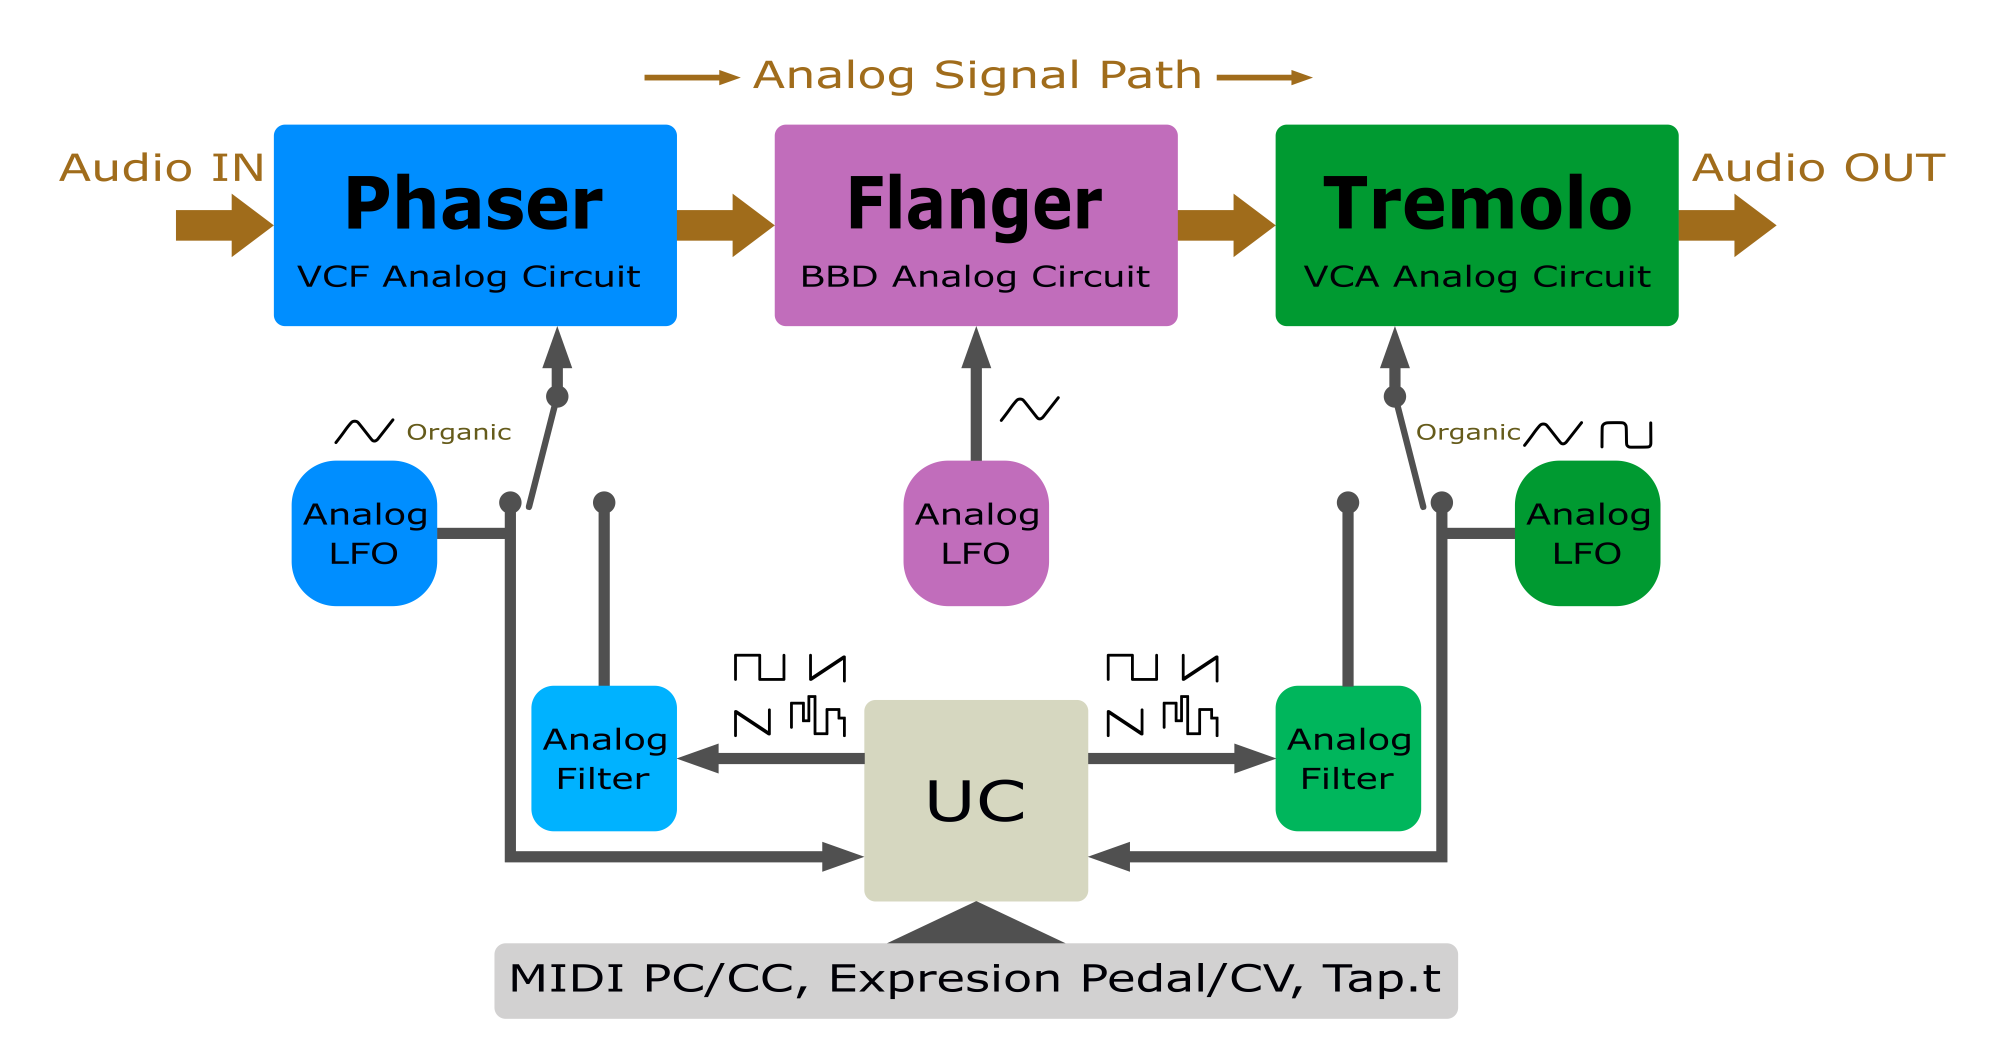
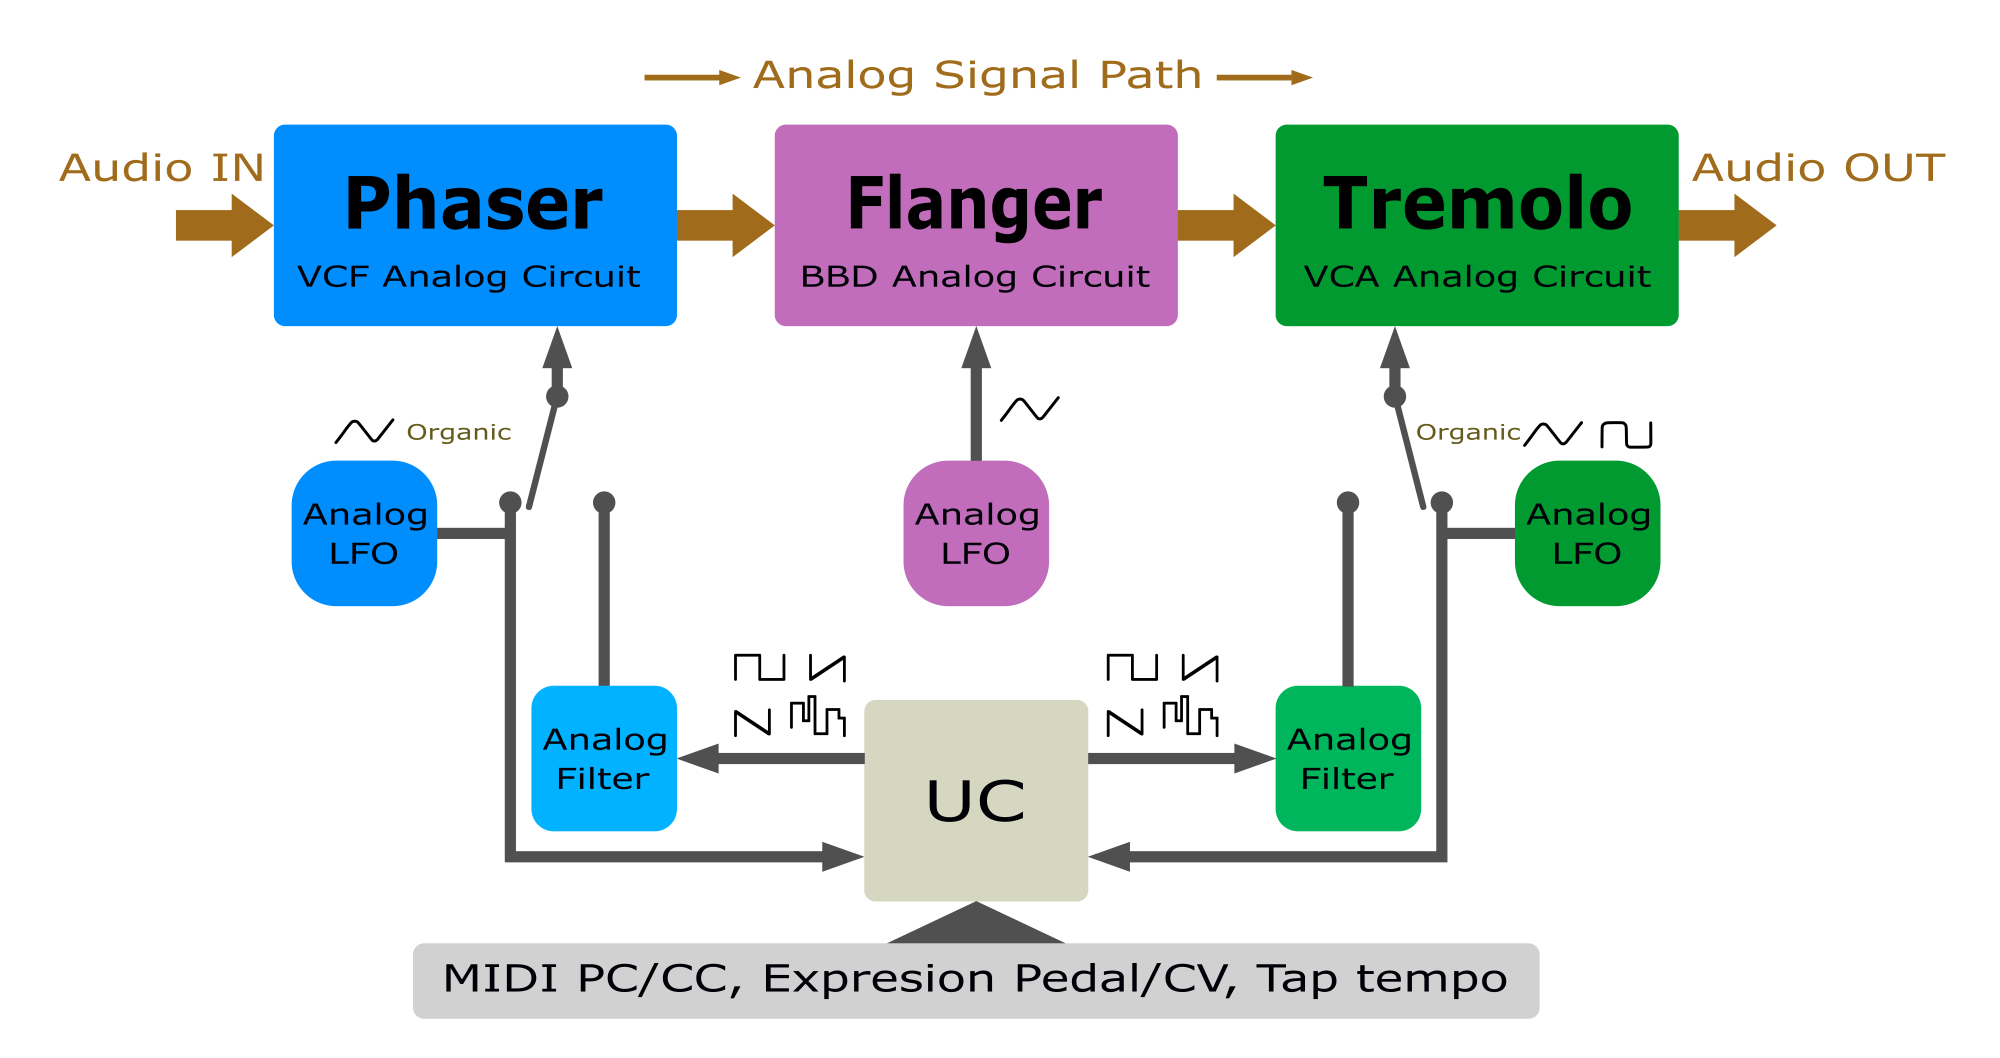
docs: sync manual — revisión amigo (convenciones LFO/CV/P-F-T, areas de control, switch Toggle, diagrama actualizado)

Changed region(s): [[0.186, 0.8733, 0.775, 0.9669]]

diff --git a/index.html b/index.html
@@ -815,6 +815,16 @@
         <td class="en">Hold down ≥2 s until LED changes</td>
       </tr>
       <tr>
+        <td><strong>LFO</strong></td>
+        <td class="es">Low Frequency Oscillator — oscilador de baja frecuencia que modula algún parámetro de una señal de audio (amplitud, frecuencia, retardo) sin producir audio</td>
+        <td class="en">Low Frequency Oscillator — low-frequency oscillator that modulates a parameter of an audio signal (amplitude, frequency, delay) without producing audio itself</td>
+      </tr>
+      <tr>
+        <td><strong>P</strong> · <strong>F</strong> · <strong>T</strong></td>
+        <td class="es">Letras grabadas en el panel frontal — identifican el área de controles de cada efecto: Phaser (LED azul), Flanger (LED rosado), Tremolo (LED verde)</td>
+        <td class="en">Letters engraved on the front panel — identify each effect's control area: Phaser (blue LED), Flanger (pink LED), Tremolo (green LED)</td>
+      </tr>
+      <tr>
         <td><strong>BBD</strong></td>
         <td class="es">Bucket Brigade Device — retardo analógico por etapas de capacitores</td>
         <td class="en">Bucket Brigade Device — analog delay using cascaded capacitor stages</td>
@@ -828,6 +838,11 @@
         <td><strong>VCA</strong></td>
         <td class="es">Voltage Controlled Amplifier — control de amplitud por voltaje (Tremolo)</td>
         <td class="en">Voltage Controlled Amplifier — amplitude control by voltage (Tremolo)</td>
+      </tr>
+      <tr>
+        <td><strong>CV</strong></td>
+        <td class="es">Control Voltage — señal de control por voltaje, alternativa al pedal de expresión</td>
+        <td class="en">Control Voltage — voltage-based control signal, an alternative to the expression pedal</td>
       </tr>
     </tbody>
   </table>
@@ -943,7 +958,7 @@
       <tr>
         <td><strong>REG / RES</strong></td>
         <td class="es">Perilla</td><td class="en">Knob</td>
-        <td class="es">Resonancia — Q del filtro (VCF)</td><td class="en">Resonance — filter Q (VCF)</td>
+        <td class="es">Factor Q del filtro (VCF)</td><td class="en">Filter Q factor (VCF)</td>
         <td class="es">Regeneración — feedback del delay</td><td class="en">Regeneration — delay feedback</td>
       </tr>
       <tr>
@@ -1030,10 +1045,10 @@
         <td class="en">Speed B — <span class="leds"><span class="led led-orange led-sm"></span></span> orange LED pulses in sync</td>
       </tr>
       <tr>
-        <td><strong>Toggle T</strong></td>
-        <td class="es">Toggle Switch</td><td class="en">Toggle Switch</td>
-        <td class="es">Selecciona la forma Orgánica de Tremolo: <em>Triangular Orgánica</em> o <em>Cuadrada Orgánica</em>. Inactivo en Onda Cuadrada, Rampa Ascendente, Rampa Descendente y Aleatoria.</td>
-        <td class="en">Selects the Tremolo Organic waveform: <em>Organic Triangle</em> or <em>Organic Square</em>. Inactive in Square Wave, Saw Up, Saw Down and Random.</td>
+        <td><strong>Toggle</strong></td>
+        <td class="es">switch Toggle</td><td class="en">switch Toggle</td>
+        <td class="es">Selecciona la forma Orgánica de Tremolo: <em>Triangular Orgánica</em> o <em>Cuadrada Orgánica</em>. Inactivo en Onda Cuadrada, Rampa Ascendente, Rampa Descendente y Aleatoria (ver sección 5).</td>
+        <td class="en">Selects the Tremolo Organic waveform: <em>Organic Triangle</em> or <em>Organic Square</em>. Inactive in Square Wave, Saw Up, Saw Down and Random (see section 5).</td>
       </tr>
     </tbody>
   </table>
@@ -1058,10 +1073,10 @@
       <tr>
         <td class="es"><strong>Derecho</strong></td>
         <td class="en"><strong>Right</strong></td>
-        <td class="es">Activar / bypass Phaser (PH), Flanger (FL) o PH+FL</td>
-        <td class="en">Activate / bypass Phaser (PH), Flanger (FL) or PH+FL</td>
-        <td class="es">Menú de selección de efecto: PH / FL / PH+FL / Rate A/B Tremolo (ver sección 4)</td>
-        <td class="en">Effect selection menu: PH / FL / PH+FL / Rate A/B Tremolo (see section 4)</td>
+        <td class="es">Activar / bypass Phaser (P), Flanger (F) o P+F</td>
+        <td class="en">Activate / bypass Phaser (P), Flanger (F) or P+F</td>
+        <td class="es">Menú de selección de efecto: P / F / P+F / Rate A/B Tremolo (ver sección 4)</td>
+        <td class="en">Effect selection menu: P / F / P+F / Rate A/B Tremolo (see section 4)</td>
       </tr>
     </tbody>
   </table>
@@ -1323,8 +1338,8 @@
   <h3 class="sub es">Velocidades A y B (Rate A / B)</h3>
   <h3 class="sub en">Speeds A and B (Rate A / B)</h3>
 
-  <p class="es">Cada efecto tiene dos velocidades preconfiguradas por sus controles RATE A y RATE B. Para <strong>Tremolo</strong>: controles de la sección T (izquierda). Para <strong>Phaser y Flanger</strong>: controles compartidos de la sección F y P (central/derecha).</p>
-  <p class="en">Each effect has two speeds preset by its RATE A and RATE B controls. For <strong>Tremolo</strong>: T section controls (left). For <strong>Phaser and Flanger</strong>: shared F and P section controls (center/right).</p>
+  <p class="es">Cada efecto tiene dos velocidades preconfiguradas por sus controles RATE A y RATE B. Para <strong>Tremolo</strong>: controles del área de controles de Tremolo. Para <strong>Phaser y Flanger</strong>: control compartido entre las áreas de controles de Phaser y de Flanger.</p>
+  <p class="en">Each effect has two speeds preset by its RATE A and RATE B controls. For <strong>Tremolo</strong>: controls in the Tremolo control area. For <strong>Phaser and Flanger</strong>: shared control between the Phaser and Flanger control areas.</p>
 
   <div class="box note">
     <p class="es"><strong>LEDs de Rate A/B:</strong> Los LEDs de Rate oscilan en sincronía cuando el LFO está controlado desde las perillas RATE A o B del pedal. Cuando la velocidad proviene de un Pedal de Expresión, MIDI CC o Tap Tempo, el efecto responde a esa fuente pero los LEDs continúan reflejando el oscilador local del pedal.</p>
@@ -1351,8 +1366,8 @@
   <h2 class="sec es">Formas de Onda LFO</h2>
   <h2 class="sec en">LFO Waveforms</h2>
 
-  <p class="es">El TripMod ofrece cinco formas de onda LFO seleccionables por menú para <strong>Phaser</strong> y <strong>Tremolo</strong>. Adicionalmente, para Tremolo, cuando se está en modo <em>Triangular Orgánica</em>, el Switch Toggle del panel frontal permite seleccionar la variante <em>Cuadrada Orgánica</em>. La señal <em>Triangular Orgánica</em> es el oscilador analógico del circuito — la Unidad de Control la usa como referencia de amplitud (DEPTH) y frecuencia (RATE) para generar las demás formas. El Flanger siempre usa su oscilador analógico propio.</p>
-  <p class="en">TripMod offers five menu-selectable LFO waveforms for <strong>Phaser</strong> and <strong>Tremolo</strong>. Additionally, for Tremolo, when in <em>Organic Triangle</em> mode, the front panel Switch Toggle allows selecting the <em>Organic Square</em> variant. The <em>Organic Triangle</em> signal is the circuit's analog oscillator — the Control Unit uses it as the amplitude (DEPTH) and frequency (RATE) reference for generating all other waveforms. Flanger always uses its own analog oscillator.</p>
+  <p class="es">El TripMod ofrece cinco formas de onda LFO seleccionables por menú para <strong>Phaser</strong> y <strong>Tremolo</strong>. Adicionalmente, para Tremolo, cuando se está en modo <em>Triangular Orgánica</em>, el switch Toggle del panel frontal permite seleccionar la variante <em>Cuadrada Orgánica</em>. La señal <em>Triangular Orgánica</em> es el oscilador analógico del circuito — la Unidad de Control la usa como referencia de amplitud (DEPTH) y frecuencia (RATE) para generar las demás formas. El Flanger siempre usa su oscilador analógico propio.</p>
+  <p class="en">TripMod offers five menu-selectable LFO waveforms for <strong>Phaser</strong> and <strong>Tremolo</strong>. Additionally, for Tremolo, when in <em>Organic Triangle</em> mode, the front panel switch Toggle allows selecting the <em>Organic Square</em> variant. The <em>Organic Triangle</em> signal is the circuit's analog oscillator — the Control Unit uses it as the amplitude (DEPTH) and frequency (RATE) reference for generating all other waveforms. Flanger always uses its own analog oscillator.</p>
 
   <!-- WAVEFORM CARDS — 3+3 layout, 6 waveforms, all different colors -->
   <div class="three-col" style="margin: 3mm 0;">
@@ -1363,8 +1378,8 @@
       </svg>
       <div class="wave-name es">Triangular Orgánica</div>
       <div class="wave-name en">Organic Triangle</div>
-      <div class="wave-desc es">Oscilador analógico — picos suaves. Toggle T activo.</div>
-      <div class="wave-desc en">Analog oscillator — soft peaks. Toggle T active.</div>
+      <div class="wave-desc es">Oscilador analógico — picos y valles suaves.</div>
+      <div class="wave-desc en">Analog oscillator — soft peaks and valleys.</div>
     </div>
     <!-- 2. Cuadrada Orgánica — amber, S-curves suaves -->
     <div class="wave-card">
@@ -1373,8 +1388,8 @@
       </svg>
       <div class="wave-name es">Cuadrada Orgánica</div>
       <div class="wave-name en">Organic Square</div>
-      <div class="wave-desc es">Variante orgánica — transiciones suaves entre niveles. Seleccionada con Toggle T.</div>
-      <div class="wave-desc en">Organic variant — smooth transitions between levels. Selected with Toggle T.</div>
+      <div class="wave-desc es">Oscilador analógico — transiciones suaves entre niveles. Solo disponible para Tremolo.</div>
+      <div class="wave-desc en">Analog oscillator — smooth transitions between levels. Tremolo only.</div>
     </div>
     <!-- 3. Rampa Ascendente — green -->
     <div class="wave-card">
@@ -1419,8 +1434,8 @@
   </div>
 
   <div class="box note">
-    <span class="es"><strong>Nota:</strong> En modo <em>Triangular Orgánica</em>, el Switch Toggle del panel frontal está activo y selecciona entre <em>Triangular Orgánica</em> y <em>Cuadrada Orgánica</em>. En los demás modos (Onda Cuadrada, Rampa Ascendente, Rampa Descendente, Aleatoria), el Switch Toggle se ignora. El Flanger siempre usa su oscilador analógico propio (triangular orgánica). No participa del menú de formas de onda y no admite cambio de parámetros vía MIDI CC, expresión ni Tap Tempo.</span>
-    <span class="en"><strong>Note:</strong> In <em>Organic Triangle</em> mode, the front panel Switch Toggle is active and selects between <em>Organic Triangle</em> and <em>Organic Square</em>. In the other modes (Square Wave, Saw Up, Saw Down, Random), the Switch Toggle is ignored. Flanger always uses its own analog oscillator (organic triangle). It does not participate in the waveform menu and does not support parameter changes via MIDI CC, expression, or Tap Tempo.</span>
+    <span class="es"><strong>Nota:</strong> En modo <em>Triangular Orgánica</em> del Tremolo, el switch Toggle del panel frontal está activo y selecciona entre <em>Triangular Orgánica</em> y <em>Cuadrada Orgánica</em>. En los demás modos (Onda Cuadrada, Rampa Ascendente, Rampa Descendente, Aleatoria), el switch Toggle se ignora. El Flanger siempre usa su oscilador analógico propio (triangular orgánica). No participa del menú de formas de onda y no admite cambio de parámetros vía MIDI CC, expresión ni Tap Tempo.</span>
+    <span class="en"><strong>Note:</strong> In Tremolo's <em>Organic Triangle</em> mode, the front panel switch Toggle is active and selects between <em>Organic Triangle</em> and <em>Organic Square</em>. In the other modes (Square Wave, Saw Up, Saw Down, Random), the switch Toggle is ignored. Flanger always uses its own analog oscillator (organic triangle). It does not participate in the waveform menu and does not support parameter changes via MIDI CC, expression, or Tap Tempo.</span>
   </div>
 
   <!-- ACCESO AL MENÚ LFO -->
@@ -1500,8 +1515,8 @@
   </div>
 
   <div class="box note">
-    <span class="es"><strong>Tremolo — modo Orgánico:</strong> En <em>Triangular Orgánica</em>, el Tremolo puede sonar Triangular o Cuadrado según la posición del Toggle Switch del panel frontal. Esta selección es independiente del menú de formas de onda.</span>
-    <span class="en"><strong>Tremolo — Organic mode:</strong> In <em>Organic Triangle</em> mode, Tremolo can sound Triangular or Square based on the front panel Toggle Switch position. This selection is independent of the waveform menu.</span>
+    <span class="es"><strong>Tremolo — modo Orgánico:</strong> En <em>Triangular Orgánica</em>, el Tremolo puede sonar Triangular o Cuadrado según la posición del switch Toggle del panel frontal. Esta selección es independiente del menú de formas de onda.</span>
+    <span class="en"><strong>Tremolo — Organic mode:</strong> In <em>Organic Triangle</em> mode, Tremolo can sound Triangular or Square based on the front panel switch Toggle position. This selection is independent of the waveform menu.</span>
   </div>
 
   <div class="box note">
@@ -2350,8 +2365,8 @@
       </tr>
       <tr>
         <td class="es">Función footswitch externo A/B/C</td><td class="en">External footswitch A/B/C function</td>
-        <td class="es">A=Phaser ON/OFF · B=Rate PH+FL · C=Rate TR</td>
-        <td class="en">A=Phaser ON/OFF · B=Rate PH+FL · C=Rate TR</td>
+        <td class="es">A=Phaser ON/OFF · B=Rate P+F · C=Rate T</td>
+        <td class="en">A=Phaser ON/OFF · B=Rate P+F · C=Rate T</td>
       </tr>
       <tr>
         <td class="es">Función footswitch izquierdo</td><td class="en">Left footswitch function</td>
